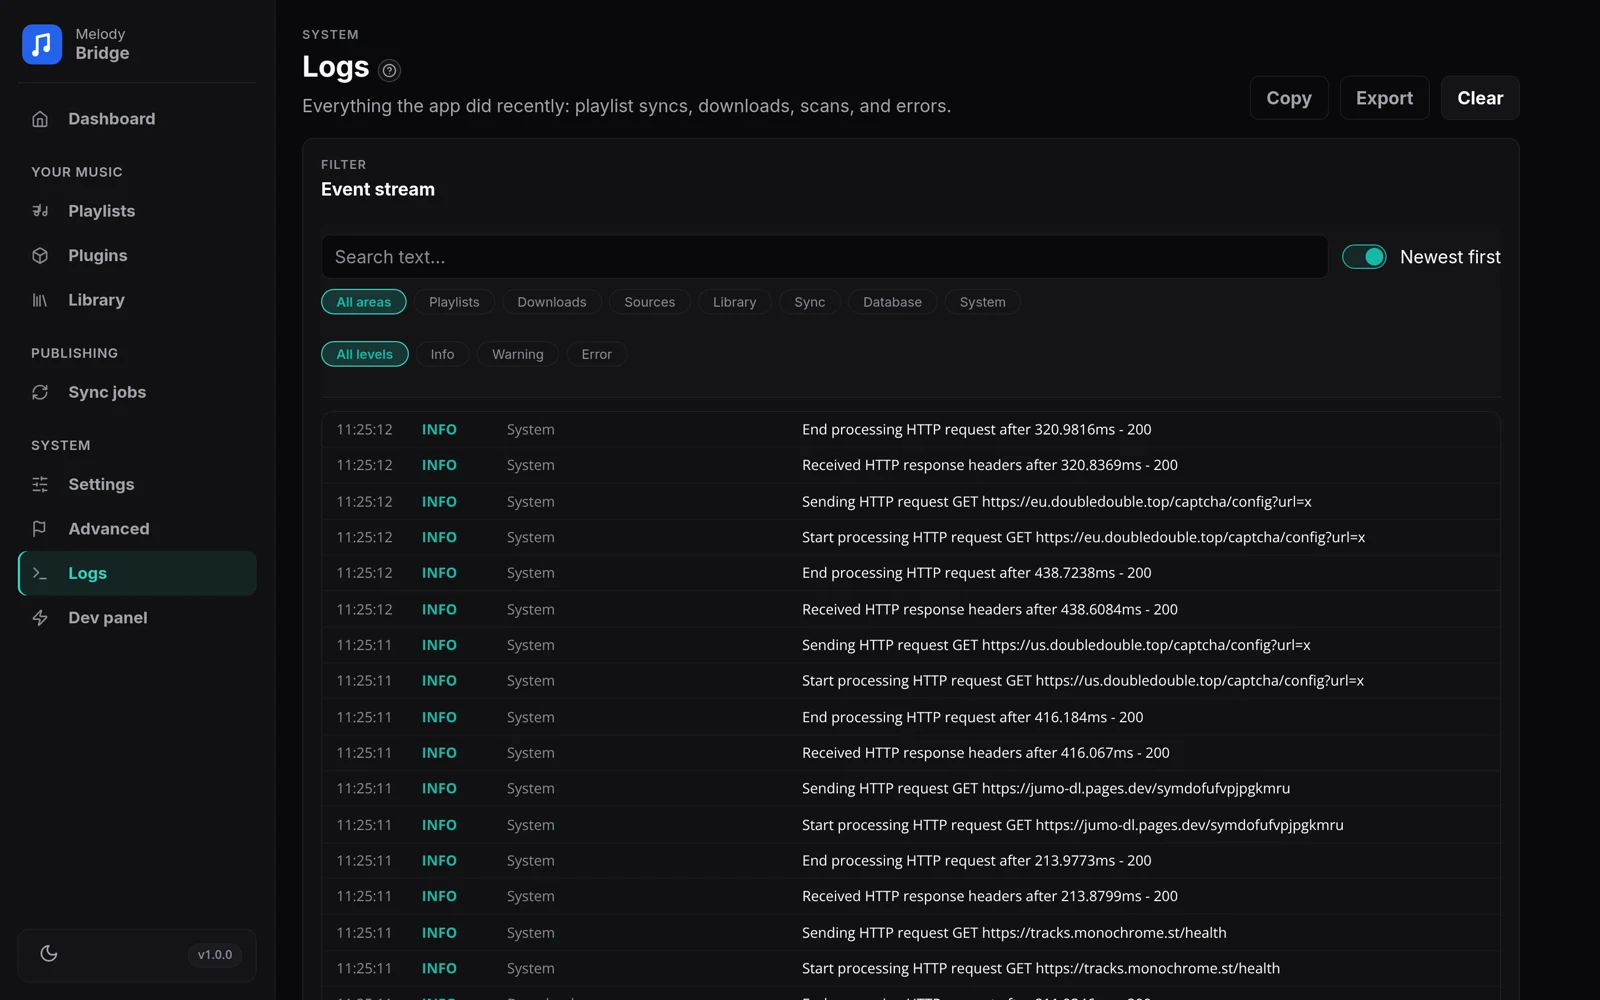
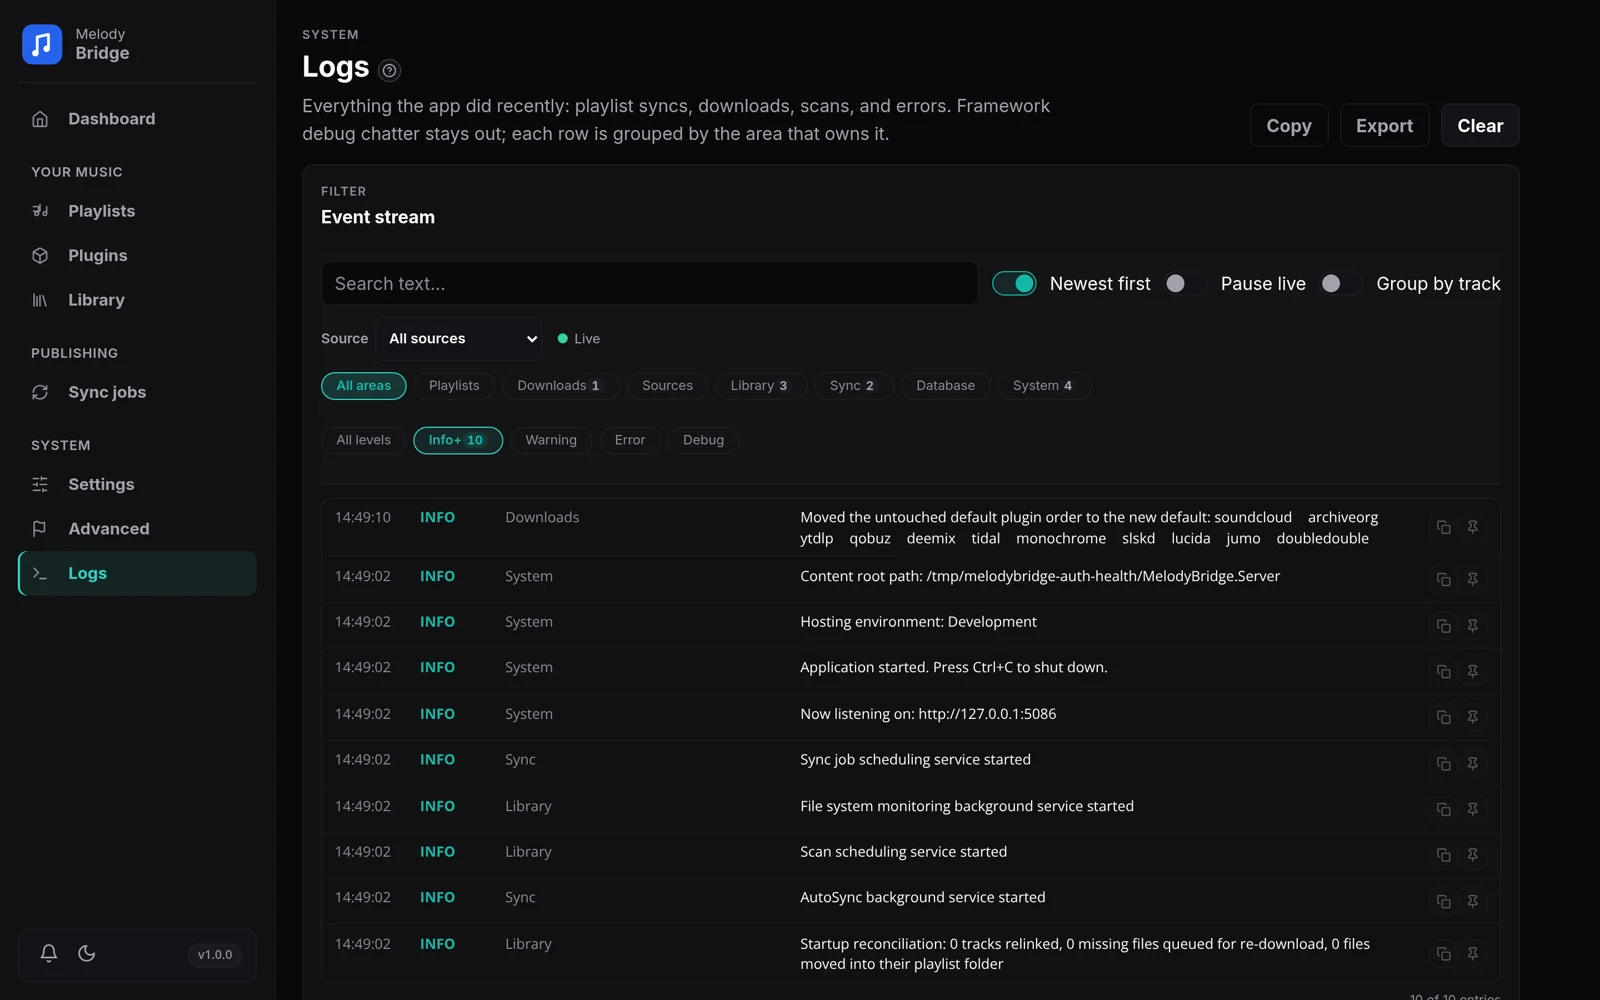
docs: cover the plugin, picker and log quality-of-life updates

diff --git a/docs/reference.md b/docs/reference.md
@@ -9,7 +9,9 @@ the reference.
 <img src="/screens/settings.webp" alt="Settings page with its seven tabs" width="800">
 
 The Settings page has seven tabs. Changes save with the **Save settings** button
-and apply immediately, no restart needed.
+and apply immediately, no restart needed. The search box above the tabs jumps to
+the tab that owns a setting: type `theme`, `ntfy`, `Jellyfin` or a similar word
+and pick a result. It is a jump list, not a live filter of every field.
 
 ### Accounts
 
@@ -113,6 +115,13 @@ Two ways to hear about events. **Toasts** pop up in the corner when a playlist
 download finishes and when a track, sync job or background task fails; both on
 by default, and failures always reach the log regardless.
 
+A success or info toast fades after a few seconds. A warning or error stays for
+12 seconds and can be closed sooner. The bell in the sidebar keeps the last
+notifications, including the ones whose toast already faded: open it to read
+them again, follow an action such as **Fix plugin**, **Open playlist**, **Retry**
+or **View logs**, or clear the history. The bell badge counts what you have not
+opened yet.
+
 **ntfy push** sends the same events to your own ntfy server. Flip **Send
 notifications to ntfy**, enter the **Topic URL** (for example
 `https://ntfy.sh/melodybridge`) and, if the topic is protected, an **Access
@@ -131,10 +140,31 @@ stalls a download or a scan.
 
 ### About
 
-App version and **Check for updates**, a button to replay the guided tour, the
-accent color picker, **Export logs** (the most recent 1000 entries as a text
-file), and the database section: **Export zip** makes a snapshot, and importing
-one replaces the database. After a database import, restart the app.
+App version and **Check for updates**, a button to replay the guided tour, and
+the appearance section. **Theme** offers Light, Dark or Auto: Auto follows your
+device and switches with it. The accent picker below it colors tabs, buttons and
+highlights, the guided tour included. Both are stored in this browser only.
+
+**Export logs** writes the most recent 1000 entries as a text file. The database
+section exports a zip snapshot; importing one replaces the database, and you
+restart the app afterwards.
+
+## The dashboard
+
+The dashboard is the at-a-glance page: playlists, downloaded tracks, library
+files and enabled plugins. The connections panel lists Spotify, YouTube, your
+media servers and FlareSolverr, and the recent errors panel links to the Logs
+page.
+
+- **Plugin logins** lists every login problem in the same red style as the
+  Plugins page, with a **Fix** link straight to that plugin card. It says "No
+  login problems found" when every enabled plugin's stored login looks usable.
+- The sidebar **download chip** appears while a playlist download is running or
+  paused: how many runs, how many tracks are done, and how many failed. Click it
+  to open the live downloads on the Plugins page.
+- On a fresh install, the setup checklist includes a **Connect a lossless
+  source** card. It links to the Qobuz, Deezer and Tidal cards for the three
+  token flows, and to Jumo and Monochrome, which need no account.
 
 ## Playlist options
 
@@ -202,6 +232,11 @@ archive copies.
   A source that fails stays in the list with the reason, ready for another
   pick. The automatic search refuses results it cannot vouch for, so a wrong
   song is a miss you repair here instead of a silent download.
+  The picker filters by plugin, match confidence and **can serve target**, and
+  each row can copy its source URL or open that plugin's settings. The filters
+  and scroll position are remembered when you close and reopen it. An empty
+  result list names the plugins that were not searched and links straight to
+  their cards, so a short list never looks like a silent failure.
 - A flagged track row (wrong length or inflated bitrate) shows a **!** pill and
   two buttons: **Keep** accepts the file as it is, **Retry** downloads it again
   while skipping the provider that delivered the flagged file. The file stays
@@ -216,14 +251,19 @@ archive copies.
 - **Refresh** fetches the playlist again and applies the sync mode.
 - **Download missing** starts a download run. While one is live, the button is
   replaced by **Pause**, **Resume** and **Cancel**.
+- When tracks are failed, **Retry failed (N)** retries all of them in the normal
+  waterfall order and **Retry elsewhere** also leaves out the plugin that failed
+  each track last time. A progress card shows the batch; the final toast says
+  how many downloaded and how many still failed. A failed-download toast can
+  link back with **Retry** and start that one track again.
 - **Remove playlist** removes the playlist, with an option to delete the
   downloaded files too.
 
-<img src="/screens/source-picker.webp" alt="Choose source dialog with exact quality facts and target match pills" width="800">
+<img src="/screens/source-picker.webp" alt="Choose source dialog with filters, exact quality facts and target match pills" width="800">
 
 ## The Plugins page
 
-<img src="/screens/plugins.webp" alt="Plugins page with order controls, capability badges and live download progress" width="800">
+<img src="/screens/plugins.webp" alt="Plugins page with order controls, route preview, per-plugin status and capability badges" width="800">
 
 Plugins search for and download your tracks. The order set here is the whole
 story for the **No filter** quality. When a playlist asks for a specific
@@ -232,12 +272,23 @@ declared capabilities decide) and the order here only breaks ties between
 plugins of the same kind. Use the arrows to move a plugin and the switch to
 enable or disable it.
 
+The **Route preview** card answers "what will actually run?" before a download.
+Pick a quality preset and it shows the enabled plugins in try order, with the
+ones left out and the reason they were left out ("no lossless source", "cannot
+produce FLAC"). It is a declaration preview: availability is still probed per
+track.
+
 - Each plugin card shows its capability badges (formats, bitrate range) and a
   **Settings** row when it has options. The row opens a panel with the fields
   that matter (a token, an API key, a quality) and hides the rarely touched
   knobs (commands, custom folders) behind **Advanced**. Secret fields render
   as password inputs with a reveal button, and values are remembered per
   plugin.
+- A working login shows what it actually gives you: the Qobuz account and
+  configured tier ("Studio, hi-res up to 96 kHz"), the Deezer plan ("No
+  lossless plan"), or the Tidal country, tier and expiry. The card also says
+  when it was last checked, and its refresh button tests only that plugin.
+  Plugins that have a docs page carry a **Setup guide** link.
 - An unavailable plugin (missing binary, dead service) is skipped by the
   waterfall. The card says what is missing, in one line, and **Refresh status**
   re-checks everything.
@@ -247,9 +298,15 @@ enable or disable it.
   of the page lists every affected plugin with an **Open settings** button, the
   Plugins link in the sidebar carries the same mark, and a toast names the
   plugin when the problem is found. A login that was never set up is not a red
-  alert: the card only says what to add.
+  alert: the card only says what to add. **Dismiss** hides the banner until a
+  login problem appears or changes, and the mark on the card stays.
+- A failing card has **Copy diagnostics**: version, plugin id, enabled state,
+  login state, last reason, declared capabilities and the settings with secrets
+  masked. Paste it into a bug report.
 - **Save settings** tests the new token or ARL immediately instead of reusing
-  the previous "unavailable" answer.
+  the previous "unavailable" answer. Status probes run in parallel, so one slow
+  provider does not hold up the rest; each card shows a checking state while its
+  probe runs.
 - **Live downloads** shows each running playlist with its progress and the track
   it is on, plus **Pause**, **Resume** and **Cancel** buttons. Several tracks of
   a playlist download in parallel; the limit is set on the Advanced page. Every
@@ -310,14 +367,25 @@ The event stream shows playlist syncs, downloads, scans and errors. When there
 are errors, a banner at the top lists them; click one to jump to that area.
 
 - Filter by area (Playlists, Downloads, Sources, Library, Sync, Database,
-  System) or level (Info+, Warning, Error, Debug). Every area chip shows how
-  many entries it holds. The search box also matches the friendly area names.
+  System), level (Info+, Warning, Error, Debug) or source (Qobuz, Tidal, Deezer,
+  yt-dlp, SoundCloud, Monochrome, Jumo, Lucida, Archive.org, Soulseek,
+  DoubleDouble, Waterfall, Other). Every area chip shows how many entries it
+  holds, and the source list shows its counts too. The search box also matches
+  the friendly area names.
 - The page opens on **Info+**, so debug and trace noise stays out until you ask
   for it. Framework chatter from ASP.NET, the host and `System.*` loggers is
   kept out as well; their warnings and errors still appear.
-- **Show only problems** narrows everything down to errors. **Copy** puts the
-  filtered entries on your clipboard, **Export** writes them to a file, and
-  **Clear** empties the buffer.
+- **Pause live** stops the two-second refresh so the stream stays still while
+  you read it; resuming catches up at once. **Group by track** puts one
+  download attempt's search, skip reasons, download and verification under the
+  same track header.
+- Each row has **Copy** and **Pin**. A pinned entry moves to the pinned card
+  above the stream and stays there while it updates; **Clear** empties the
+  pinned list. **Show only problems** narrows everything down to errors.
+  **Copy** puts the filtered entries on your clipboard, **Export** writes them
+  to a file, and **Clear** empties the buffer.
+- The filters, search text, order and grouping are remembered when you leave
+  the page and come back. A restart starts clean.
 
 ## When a download fails
 

diff --git a/docs/developer.md b/docs/developer.md
@@ -141,7 +141,25 @@ waterfall, the Plugins page and the periodic `PluginAuthWatchService` feed it,
 and the sidebar mark, the warning banner and the toast read it. A missing login
 is not a red alert, only a login that stopped working is. `AuthStatus` is
 separate from `IsAvailableAsync` because a dead service and a stale token need
-different words and a different fix.
+different words and a different fix. Its optional `Account`, `Plan`, `Tier` and
+`ExpiresAtUtc` fields are what the card shows for a working login. Settings that
+change a login call `IPluginAvailabilityRefresh.RefreshAvailability` so the
+save is probed for real, and the Plugins page probes in parallel with a short
+budget per plugin.
+
+Qobuz needs two payload quirks in mind: some catalogue answers arrive gzipped
+even when the request did not ask for it, and `maximum_sampling_rate` is in kHz
+as a decimal (`44.1`). `QobuzClient.ReadBodyAsync` decodes the body and the
+parser accepts both kHz and Hz.
+
+"Retry elsewhere" reads `DownloadManager.LastAttemptedPluginId` and stores it as
+the track's one-shot `AvoidPluginId`, so the same failing provider is left out
+of that retry. The sidebar activity chip is `DownloadActivitySummary.From`, a
+pure formatter. Log areas and sources are `LogAreas` and `LogSources`;
+`LogCorrelation` stamps entries with the track group the Logs page can group by.
+`NotificationService` keeps active toasts and history separately: routine
+notices fade after a few seconds, warnings and errors after 12, and both remain
+in the bell history.
 
 The store itself is a facade. The implementation lives in four services next to
 it: `PlaylistQueries` (reads, lifecycle, settings and the two maintenance

diff --git a/docs/concepts.md b/docs/concepts.md
@@ -148,7 +148,7 @@ before; a source that fails stays in the list with the reason. Automatic
 matching cannot be perfect on sources that carry no ISRC and no trustworthy
 artist name; the picker is the honest way out of that.
 
-<img src="/screens/plugins.webp" alt="Plugins page with the waterfall order, capability badges and live downloads" width="800">
+<img src="/screens/plugins.webp" alt="Plugins page with the route preview, waterfall order and capability badges" width="800">
 
 ### Cover art and lyrics
 
